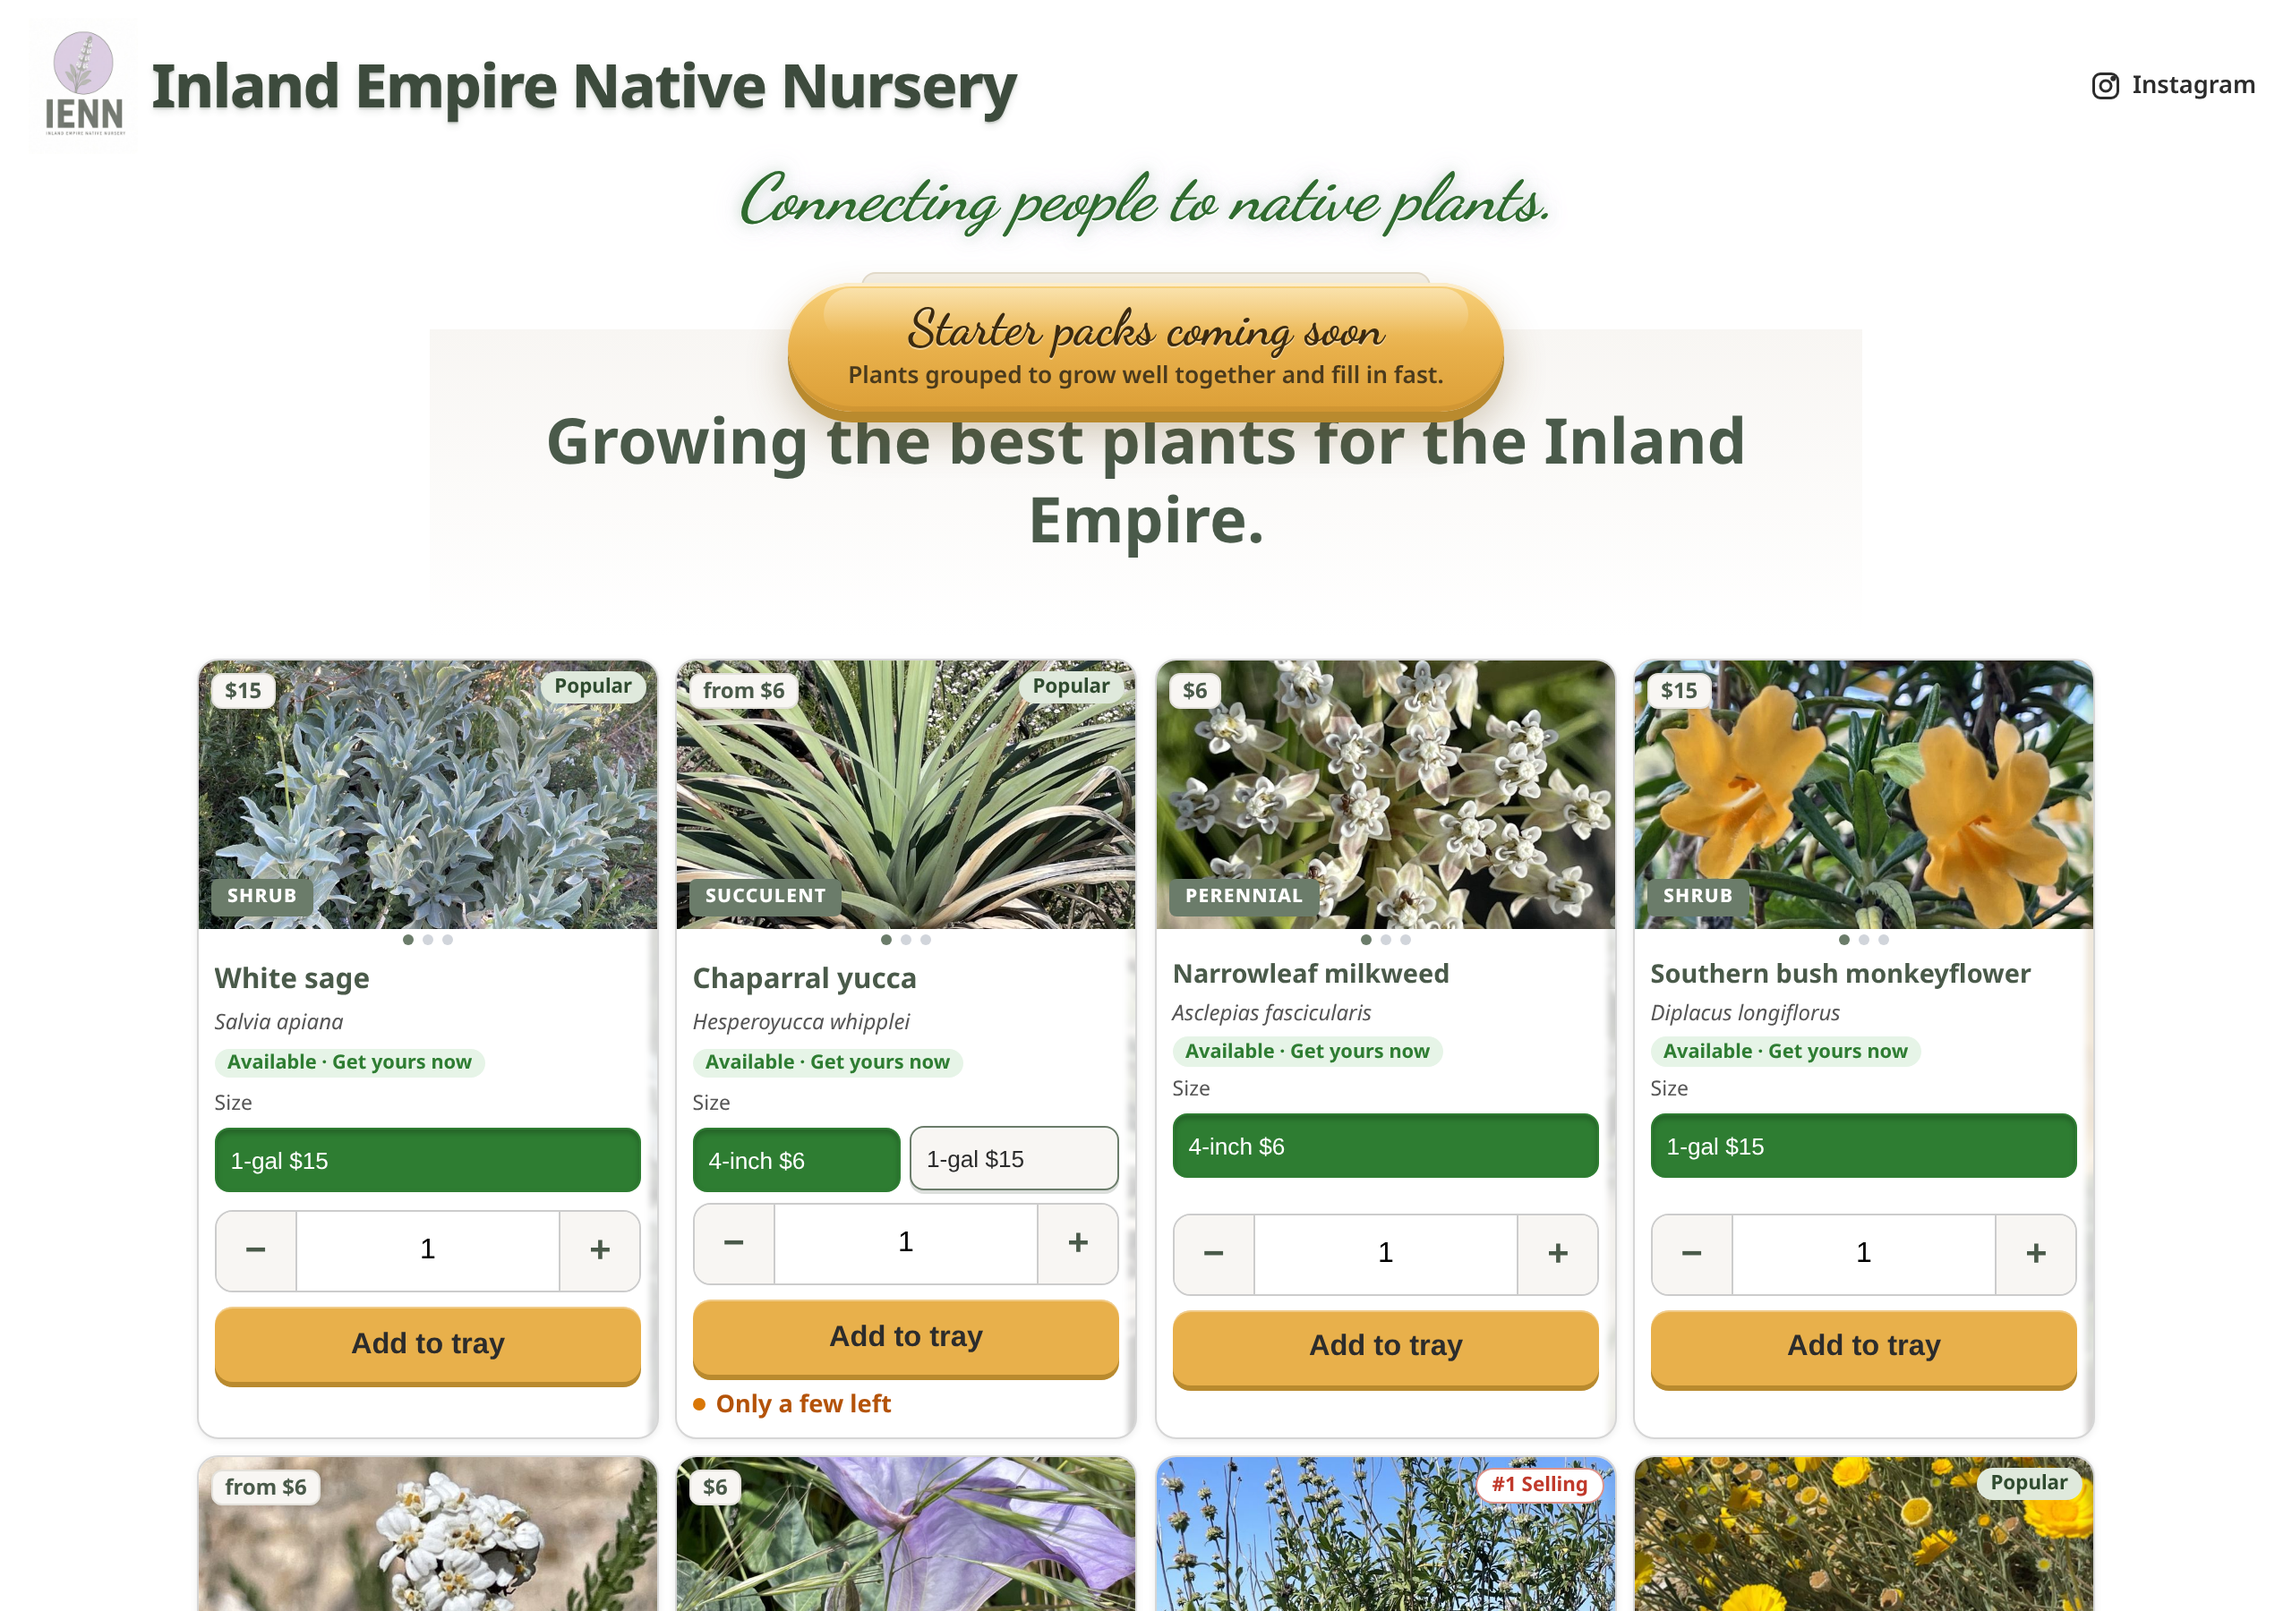
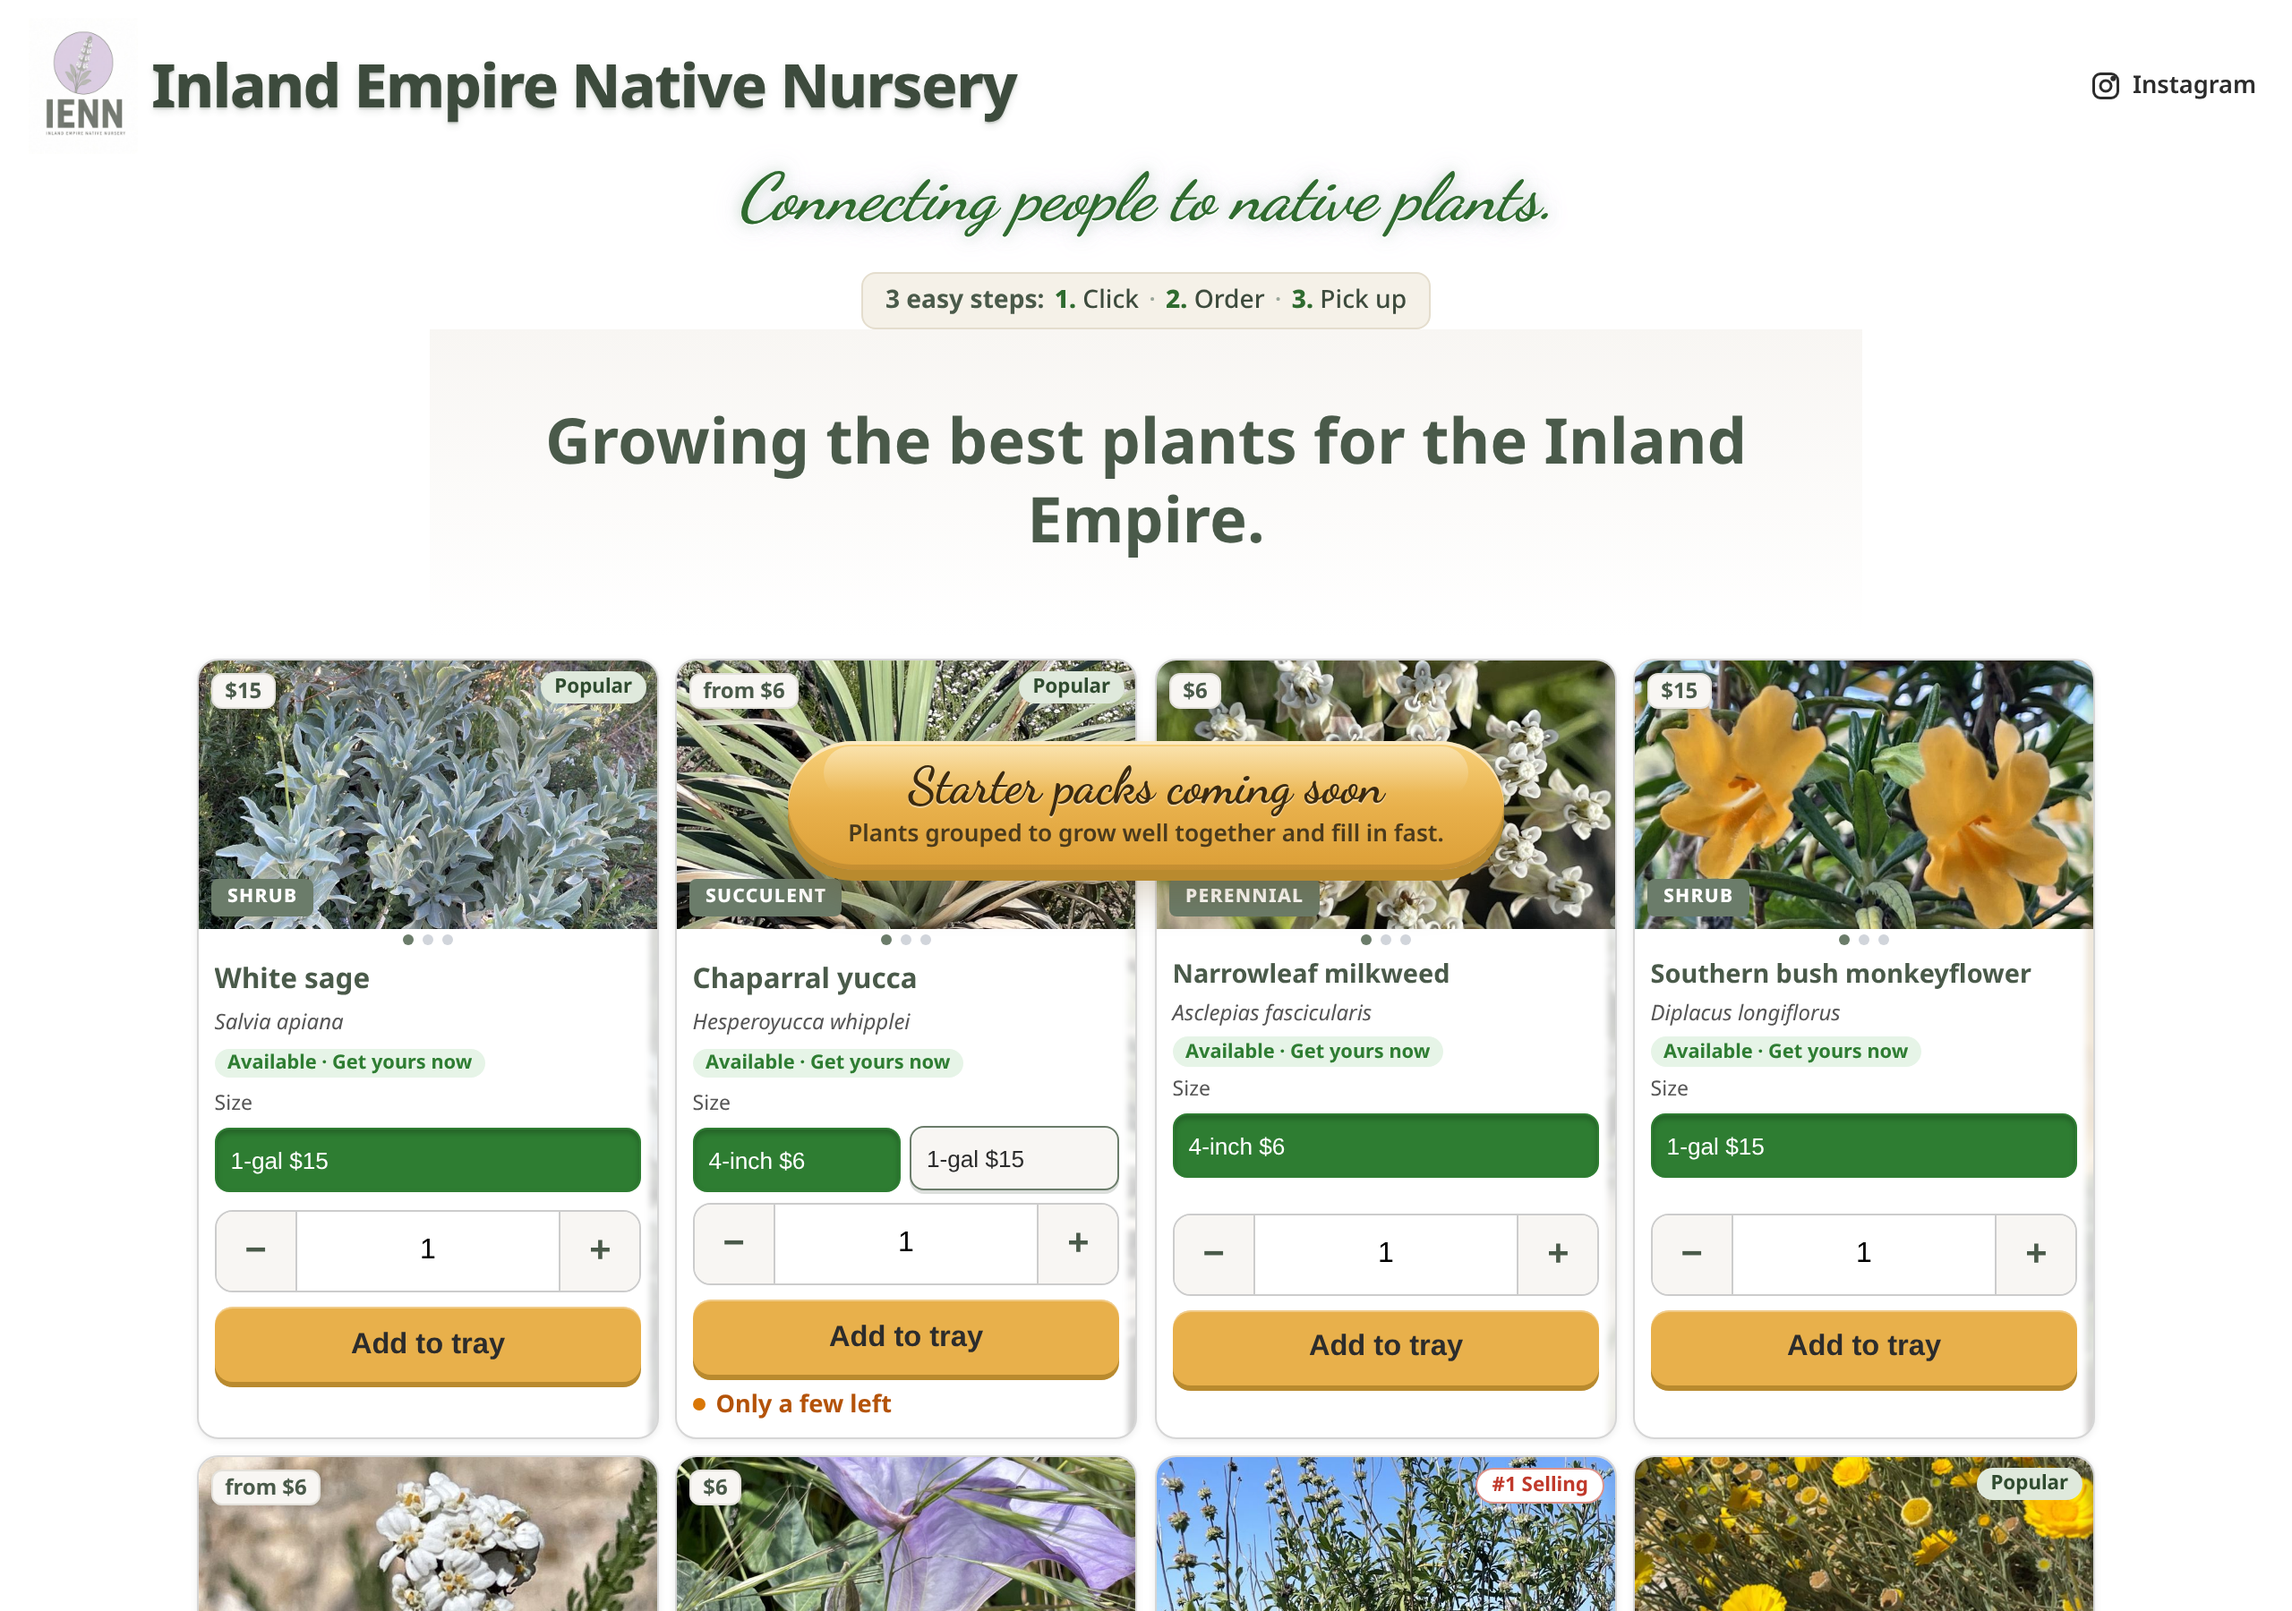
Teaser: dismiss on pointer release; cancel touch follow-up click so taps never fall through to the grid

Changed region(s): [[0.3438, 0.1556, 0.6562, 0.28], [0.3438, 0.4356, 0.6562, 0.56]]

diff --git a/teaser.js b/teaser.js
@@ -25,7 +25,11 @@
     function onKey(e) { if (e.key === "Escape" || e.key === "Esc") dismiss(false); }
     b.addEventListener("pointerdown", function () { if (!gone) b.classList.add("pressed"); });
     b.addEventListener("pointerleave", function () { if (!gone) b.classList.remove("pressed"); });
-    b.addEventListener("click", function () { dismiss(true); });   // also fires for Enter/Space
+    b.addEventListener("pointercancel", function () { if (!gone) b.classList.remove("pressed"); });
+    b.addEventListener("pointerup", function () { dismiss(true); });   // dismiss on release (mouse, pen, touch)
+    // touch: cancel the follow-up synthetic click so the tap never "falls through" to the plant grid underneath once the teaser fades
+    b.addEventListener("touchend", function (e) { if (e.cancelable) e.preventDefault(); dismiss(true); }, { passive: false });
+    b.addEventListener("click", function () { dismiss(true); });   // keyboard Enter/Space (and any click that still arrives)
     document.addEventListener("keydown", onKey);
   }
   function start() { setTimeout(show, delay); }
